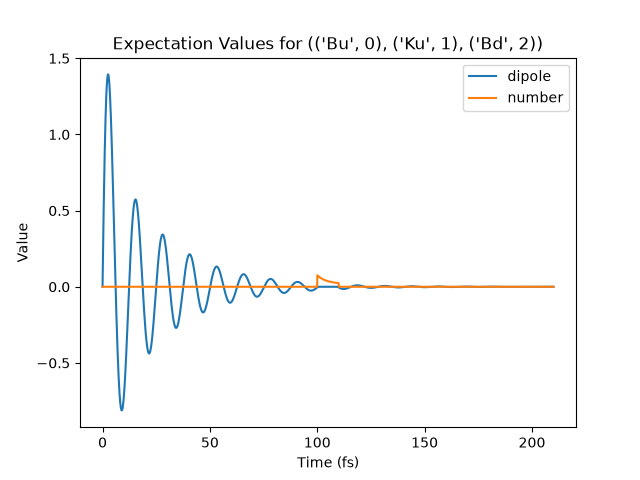
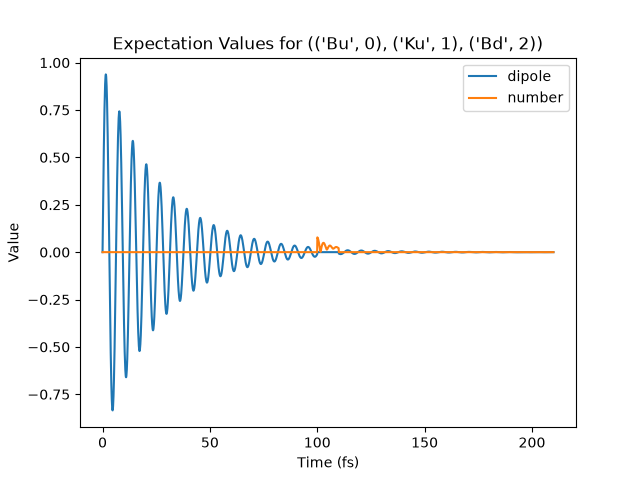
fixed N=2 maybe

diff --git a/my_tests/exc-exc energy dependant.py b/my_tests/exc-exc energy dependant.py
@@ -16,7 +16,6 @@ import ufss
 import matplotlib.animation as animation
 import matplotlib.cm as cm
 from mpl_toolkits.mplot3d import axes3d
-# import copy
 
 np.set_printoptions(threshold=sys.maxsize, linewidth=190, precision=3, suppress=True)
 
@@ -27,9 +26,9 @@ kT = T * kB
 beta = 1 / kT
 
 def spectrum_var(order=3, en_cav=None, en_exc=None, g=0.05, J=0.05,
-                 muc=1.0, muz=1.0, kappa=0.1, gamma_phase=0.15, gamma_decay=0.15,
-                 hh_bind=0.1, ll_bind=0.1, hl_bind=0.1, hg_swap=0.05, lg_swap=0.05,
-                 M=3, modes=1, dark="light", N=2, model="rw", n_th=0.25, decay="no_atomic",
+                 muc=1.0, muz=1.0, kappa=0.1, gamma_phase=0.1, gamma_decay=0.1,
+                 hh_bind=0.1, ll_bind=0.1, hl_bind=0.1, hg_swap=0.1, lg_swap=0.1,
+                 M=3, modes=1, dark="light", N=2, model="no_rw", n_th=0.25, decay="no_atomic",
                  time2=None, directory="results/exc-exc/", anim="no"):
     """
         Plot multiple spectra with real, imaginary and abs values
@@ -62,6 +61,10 @@ def spectrum_var(order=3, en_cav=None, en_exc=None, g=0.05, J=0.05,
     if en_exc is None:
         en_exc = [1.0, 1.1]
     en_exc = np.array(en_exc)
+    if time2 is None:
+        time2 = 20
+    if g is None:
+        g = 0.05
 
     # setting up dm
     fock_ = fock_dm(M, 0)
@@ -88,9 +91,13 @@ def spectrum_var(order=3, en_cav=None, en_exc=None, g=0.05, J=0.05,
     hl_h_bound_low = np.zeros((9,9)); hl_h_bound_low[[1],[5]] = 1/np.sqrt(2); hl_h_bound_low=tensor(qeye(M), Qobj(hl_h_bound_low)) # lowers to h
     hl_l_bound_low = np.zeros((9,9)); hl_l_bound_low[[2],[5]] = 1/np.sqrt(2); hl_l_bound_low=tensor(qeye(M), Qobj(hl_l_bound_low)) # lowers to l
 
+    if N == 2:
+        hh_low = hl_l_low = hl_h_low = ll_low = Qobj(np.zeros((M*9, M*9)), dims=[[M,9],[M,9]])
+
     exc_h_low = h_low + hh_bound_low + hh_low + hl_l_bound_low + hl_l_low
     exc_l_low = l_low + hl_h_bound_low + hl_h_low + ll_bound_low + ll_low
     exc_low = exc_h_low + exc_l_low
+
 
     H_exc = (hbar * wz_h * h_low.dag() * h_low + #h-pop
              hbar * wz_l * l_low.dag() * l_low + #l-pop
@@ -101,20 +108,27 @@ def spectrum_var(order=3, en_cav=None, en_exc=None, g=0.05, J=0.05,
              hbar * (wz_h + wz_l) * (hl_h_low.dag() * hl_h_low + hl_l_low.dag() * hl_l_low) + #hl-pop
              hbar * (wz_h + wz_l - hl_bind / 2) * (hl_h_bound_low.dag() * hl_h_bound_low + hl_l_bound_low.dag() * hl_l_bound_low) )#hl-biexc-pop
 
+    # scaling for ground at zero energy
+    scaling = qdiags([H_exc[0,0] for _ in range(H_exc.shape[0])], dims = H_exc.dims)
+    H_exc -= scaling
+
     # only 1 interacts with the cavity
     if model == "no_rw":
         if dark == "light":
-            H_int = hbar * g * (a + a.dag()) * (exc_h_low + exc_h_low.dag())
+            H_int = hbar * (a + a.dag()) * (exc_h_low + exc_h_low.dag())
         else:
-            H_int = hbar * g * (a + a.dag()) * (exc_l_low + exc_l_low.dag())
+            H_int = hbar * (a + a.dag()) * (exc_l_low + exc_l_low.dag())
     elif model == "rw":
         if dark == "light":
-            H_int = hbar * g * (a.dag() * exc_h_low + a * exc_h_low.dag())
+            H_int = hbar * (a.dag() * exc_h_low + a * exc_h_low.dag())
         else:
-            H_int = hbar * g * (a.dag() * exc_l_low + a * exc_l_low.dag())
+            H_int = hbar * (a.dag() * exc_l_low + a * exc_l_low.dag())
 
-    H_coupling = np.zeros((9,9)); H_coupling[[1,2],[2,1]] = H_coupling[3:,3:] = 1;
-    np.fill_diagonal(H_coupling, 0); H_coupling = tensor(qeye(M), Qobj(H_coupling)) #hl coupling
+    H_coupling = np.zeros((9,9)); H_coupling[[1,2],[2,1]] = H_coupling[[3,3,5,5,7,7],[5,7,7,3,3,5]] = H_coupling[[4,4,6,6,8,8],[6,8,8,4,4,6]] = 1
+    if N == 2:
+        H_coupling[[4,6,8][:]] = 0
+    H_coupling = tensor(qeye(M), Qobj(H_coupling)) #hl coupling
+    # print("H_coupling", H_coupling)
 
     H0 = H_cav + H_exc # diagonal hamiltonian
     H = H0 + g * H_int + J * H_coupling # total hamiltonian
@@ -124,6 +138,8 @@ def spectrum_var(order=3, en_cav=None, en_exc=None, g=0.05, J=0.05,
 
     mud = muc * (a + a.dag()) + muz * (exc_low + exc_low.dag())
     ad = muc * a + muz * exc_low
+    # print("mud", mud)
+    # print("ad", ad)
 
     # collapse operators: cavity relaxation, cavity exc., collective dephasing, atomic relaxation, atomic exc.
     c_cav_rel = np.sqrt(kappa * (n_th + 1)) * a
@@ -132,11 +148,6 @@ def spectrum_var(order=3, en_cav=None, en_exc=None, g=0.05, J=0.05,
     c_ato_rel = np.sqrt(gamma_decay * (n_th + 1)) * exc_low
     c_ato_exc = np.sqrt(gamma_decay * n_th) * exc_low.dag()
     c_ops = [c_cav_rel, c_cav_exc, c_col_dep]
-
-    if time2 is None:
-        time2 = 20
-    if g is None:
-        g = 0.05
 
     title = "exc_exc_model_energies"
 
@@ -151,15 +162,15 @@ def spectrum_var(order=3, en_cav=None, en_exc=None, g=0.05, J=0.05,
 
     # # calculate the expectation value of the number of photons in the cavity
     # n_vec = expect(a.dag() * a, rho)
+    # # print("expectation of number of photons: ", n_vec)
     # n2_vec = expect(a.dag() * a*a.dag() * a, rho)
-    # Jz_vec = expect(Sz, rho)
     # a_vec = expect(a, rho)
 
     if order == 1:
         d0 = 100
 
         # generating spectra
-        dipole, t_list, spec, freq = sys.linear_spec(d0, r=1.5/np.pi, title_graph=title, plot_graph=False, dir=directory)
+        dipole, t_list, spec, freq = sys.linear_spec(d0, r=10, title_graph=title, plot_graph=False, dir=directory)
 
     if order == 3:
 
@@ -191,7 +202,7 @@ def spectrum_var(order=3, en_cav=None, en_exc=None, g=0.05, J=0.05,
         print("finished setup stage")
 
         # generating 2Dcoherence response for rephasing diagrams
-        time_delays = [200, 20, 200]
+        time_delays = [50, 10, 50]
         scan_id = [0, 2]
         response_list = []
         diagrams = rephasing + nonrephasing
@@ -206,7 +217,7 @@ def spectrum_var(order=3, en_cav=None, en_exc=None, g=0.05, J=0.05,
         pf.silva_plot_contourf(rephasing_spectra, f1, f2, labels=['E emission', 'E absorption'],
                   scale='linear', color_map='PuOr', title_list = ['$R_1$', '$R_2$', '$R_3$', '$R_{rephasing}$'],
                   center_scale=False, plot_sum=False, plot_quadrant='2', zoom_coor=[-2.8,-2,2,2.8],
-                  invert_y=False, diagonals=[True, False], nlevels=10,
-                  title_graph="1 mode test 5", plot_graph=True, direc=directory)
+                  invert_y=False, diagonals=[True, False], nlevels=15,
+                  title_graph="1 mode test 11", plot_graph=True, direc=directory)
 
-spectrum_var(N=2, M=2)
+spectrum_var(N=2, M=3)

diff --git a/my_tests/Dicke_test.py b/my_tests/Dicke_test.py
@@ -76,7 +76,7 @@ for (H, c_ops), title in zip(H_c_ops, titles):
     title = "M"+str(M)+" N"+str(N)+" order"+str(order)+" "+title
     print(title+"\n")
 
-    # print("dimensionality of Hilbert-space: ", H.shape)
+    print("dimensionality of Hilbert-space: ", H.shape)
 
     # setting up system
     rho = tensor(fock_dm(M, 0), fock_dm(N+1, 0))  # ground state of Hamiltonian
@@ -140,7 +140,6 @@ for (H, c_ops), title in zip(H_c_ops, titles):
 
         rephasing_spectra = spectra_list[:3]
         rephasing_spectra.append(np.sum(spectra_list[:3], 0))
-        pf.silva_plot(rephasing_spectra, f1, f2, labels=['E emission', 'E absorption'],
-                      scale='linear', color_map='PuOr',
-                      interpolation='spline36', center_scale=False, plot_sum=False, plot_quadrant='2', invert_y=False,
-                      diagonals=[True, False], title_graph=title, plot_graph=False, dir="dicke_results")
+        pf.silva_plot_contourf(rephasing_spectra, f1, f2, labels=['E emission', 'E absorption'],
+                      scale='linear', color_map='PuOr', center_scale=False, plot_sum=False, plot_quadrant='2', invert_y=False,
+                      diagonals=[True, False], title_graph=title, plot_graph=False, direc="dicke_results")
